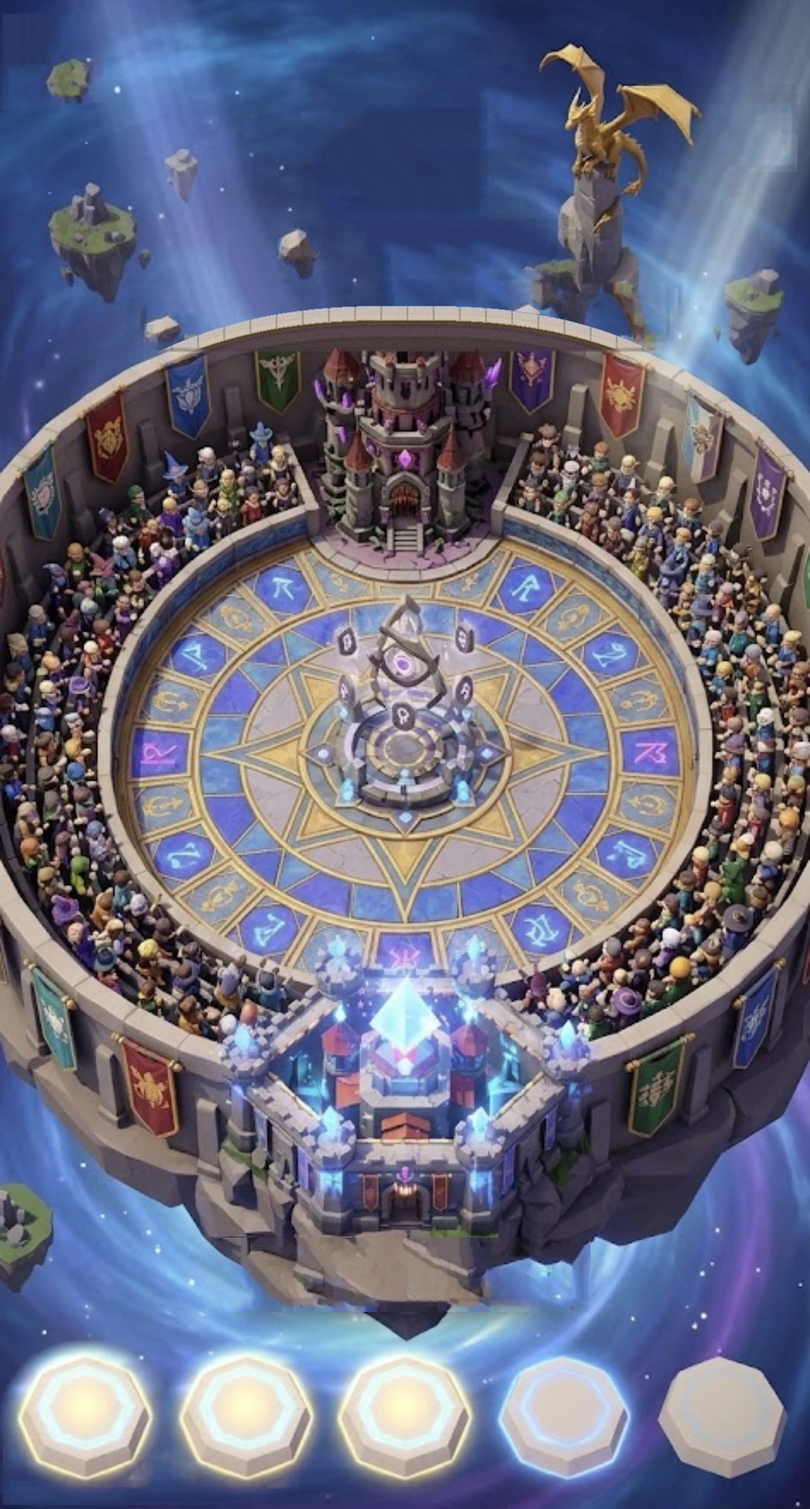
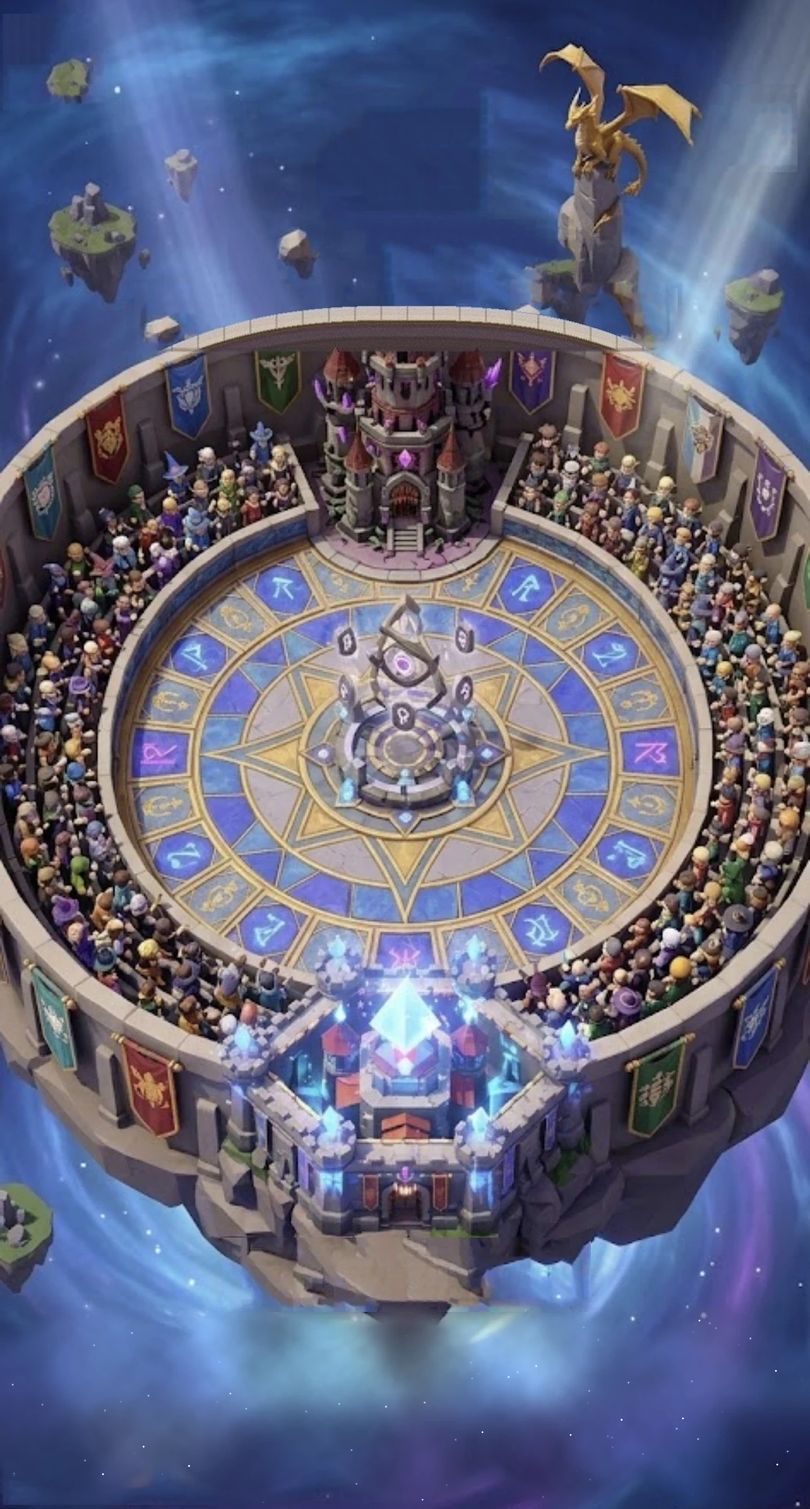
Lot 1B : Cercle d'Invocation en arc runique (médaillons ronds, héros en lévitation, bandeau de runes, éclairs de fusion) ; socles peints effacés d'Aurore et Sylve (originaux gardés)
Claude-Session: https://claude.ai/code/session_01XbgkGZjGWcb88mGKSWkqRT

Changed region(s): [[0.0, 0.8694, 0.9796, 0.9936]]

diff --git a/src/client/three/battleview.js b/src/client/three/battleview.js
@@ -52,6 +52,62 @@ const SYLVE_FS = `uniform sampler2D map; uniform float t, cheer, top; uniform ve
     gl_FragColor = c;
   }`;
 const BENCH_Z = RY + 3.1, BENCH_X = [-4.6, -2.3, 0, 2.3, 4.6];
+// ---------- Arc runique du Cercle d'Invocation (Lot 1B, 19/11 : remplace la rangée de socles en ligne) ----------
+// Les 5 socles suivent un arc (le centre plus près de toi, les bords remontent vers l'île) ;
+// chaque socle = médaillon rond de pierre astrale, liseré doré, anneau de runes qui tourne ; le héros lévite au-dessus.
+const ARC_LIFT = 0.8; // remontée des socles du bord (unités du monde)
+let RUNE_TEX = null;
+function runeTexture() {
+  if (RUNE_TEX) return RUNE_TEX;
+  const S = 256, c = document.createElement('canvas'); c.width = c.height = S; const g = c.getContext('2d');
+  g.translate(S / 2, S / 2); g.strokeStyle = '#fff'; g.lineCap = 'round';
+  g.lineWidth = 3; g.beginPath(); g.arc(0, 0, 118, 0, 7); g.stroke();
+  g.lineWidth = 2; g.beginPath(); g.arc(0, 0, 84, 0, 7); g.stroke();
+  // glyphes entre les deux cercles
+  let sd = 11; const rnd = () => (sd = (sd * 9301 + 49297) % 233280) / 233280;
+  for (let i = 0; i < 16; i++) {
+    g.save(); g.rotate(i / 16 * Math.PI * 2); g.translate(0, -101); g.lineWidth = 2.6; g.beginPath();
+    const k = Math.floor(rnd() * 4);
+    if (k === 0) { g.moveTo(-6, -8); g.lineTo(0, 8); g.lineTo(6, -8); }
+    else if (k === 1) { g.moveTo(0, -9); g.lineTo(0, 9); g.moveTo(-6, -3); g.lineTo(6, 3); }
+    else if (k === 2) { g.moveTo(-6, 8); g.lineTo(-6, -8); g.lineTo(6, 0); g.lineTo(-6, 0); }
+    else { g.arc(0, 0, 6, 0.4, 5.9); g.moveTo(0, -9); g.lineTo(0, 9); }
+    g.stroke(); g.restore();
+  }
+  // étoile à 8 branches au centre
+  g.lineWidth = 1.6; g.globalAlpha = 0.55; g.beginPath();
+  for (let i = 0; i < 8; i++) { const a = i / 8 * Math.PI * 2; g.moveTo(Math.cos(a) * 20, Math.sin(a) * 20); g.lineTo(Math.cos(a + Math.PI / 8) * 60, Math.sin(a + Math.PI / 8) * 60); g.lineTo(Math.cos(a + Math.PI / 4) * 20, Math.sin(a + Math.PI / 4) * 20); }
+  g.stroke();
+  RUNE_TEX = new THREE.CanvasTexture(c); RUNE_TEX.colorSpace = THREE.SRGBColorSpace; RUNE_TEX.anisotropy = 4;
+  return RUNE_TEX;
+}
+// Médaillon d'un socle : pierre astrale + liseré doré + runes (additives) + halo
+function medallion() {
+  const g = new THREE.Group();
+  const stone = new THREE.Mesh(new THREE.CylinderGeometry(0.92, 0.82, 0.22, 40), new THREE.MeshStandardMaterial({ color: '#1c2766', emissive: '#0d1a5a', emissiveIntensity: 0.6, roughness: 0.55, metalness: 0.25 }));
+  stone.position.y = 0.11; stone.receiveShadow = true; g.add(stone);
+  const rim = new THREE.Mesh(new THREE.TorusGeometry(0.92, 0.06, 8, 48), new THREE.MeshStandardMaterial({ color: '#e9c877', emissive: '#7a5410', emissiveIntensity: 0.7, roughness: 0.3, metalness: 0.8 }));
+  rim.rotation.x = Math.PI / 2; rim.position.y = 0.22; g.add(rim);
+  const rune = new THREE.Mesh(new THREE.PlaneGeometry(1.66, 1.66), new THREE.MeshBasicMaterial({ map: runeTexture(), color: '#8fd8ff', transparent: true, opacity: 0.85, blending: THREE.AdditiveBlending, depthWrite: false }));
+  rune.rotation.x = -Math.PI / 2; rune.position.y = 0.235; g.add(rune);
+  const halo = new THREE.Mesh(new THREE.PlaneGeometry(3, 3), new THREE.MeshBasicMaterial({ map: glowTexture(), color: '#5fb8ff', transparent: true, opacity: 0.35, blending: THREE.AdditiveBlending, depthWrite: false }));
+  halo.rotation.x = -Math.PI / 2; halo.position.y = 0.02; g.add(halo);
+  return { g, rune, halo, rim };
+}
+// Bandeau de runes qui relie les socles (courbe passant par les 5 médaillons), motif qui défile
+const ARC_VS = 'varying vec2 vUv; void main(){ vUv = uv; gl_Position = projectionMatrix * modelViewMatrix * vec4(position, 1.0); }';
+const ARC_FS = `varying vec2 vUv; uniform float t; uniform vec3 col;
+  float h(float x){ return fract(sin(x * 91.7) * 4375.5); }
+  void main(){
+    float edge = smoothstep(0.0, 0.18, vUv.y) * smoothstep(1.0, 0.82, vUv.y);
+    float line = smoothstep(0.12, 0.0, abs(vUv.y - 0.5)) * 0.55;
+    float u = vUv.x * 46.0 - t * 1.6, cell = floor(u), f = fract(u);
+    float glyph = step(0.35, h(cell)) * smoothstep(0.5, 0.2, abs(f - 0.5)) * smoothstep(0.42, 0.18, abs(vUv.y - 0.5));
+    float pulse = 0.6 + 0.4 * sin(vUv.x * 18.0 - t * 3.0);
+    float ends = smoothstep(0.0, 0.06, vUv.x) * smoothstep(1.0, 0.94, vUv.x);
+    gl_FragColor = vec4(col * (line + glyph * 0.8) * pulse * edge * ends, 1.0);
+  }`;
+
 
 // Forteresse des Sanctuaires (remplace le simple temple)
 function fortress(roof, crys, stone, hk = 1) {
@@ -86,6 +142,7 @@ export class BattleView {
     this.key = worldKey; this.me = me;
     this.q = quality();
     this.art = ARENA_ART[worldKey] || null; this.zk = this.art ? this.art.k : 1; this.bz = this.art ? this.art.benchZ : BENCH_Z; this.bx = this.art ? this.art.benchX : BENCH_X;
+    { const xm = Math.max(...this.bx.map(Math.abs)); this.bzs = this.bx.map(x => this.bz - ARC_LIFT * this.zk * (x / xm) ** 2); }
     this.r = createRenderer(canvas);
     this.scene = new THREE.Scene();
     this.cam = new THREE.PerspectiveCamera(42, 1, 0.5, 400);
@@ -140,14 +197,28 @@ export class BattleView {
     this.scene.add(ledge); if (this.art) ledge.visible = false;
     this.slotHits = [];
     for (let i = 0; i < BENCH; i++) {
-      const g = new THREE.Group(); g.position.set(this.bx[i], 0, this.bz);
-      const ped = new THREE.Mesh(new THREE.CylinderGeometry(0.85, 0.95, 0.35, 8), new THREE.MeshStandardMaterial({ color: '#d8d0c0', flatShading: true })); ped.position.y = 0.05; ped.receiveShadow = true; ped.castShadow = true; g.add(ped); if (this.art) { ped.visible = false; }
-      const rune = new THREE.Mesh(new THREE.RingGeometry(0.55, 0.72, 6), new THREE.MeshBasicMaterial({ color: '#8fd8ff', transparent: true, opacity: 0.5, side: THREE.DoubleSide, depthWrite: false }));
-      rune.rotation.x = -Math.PI / 2; rune.position.y = this.art ? 0.03 : 0.24; g.add(rune);
+      const g = new THREE.Group(); g.position.set(this.bx[i], 0, this.bzs[i]);
+      const md = medallion(); md.g.scale.setScalar(1.12); g.add(md.g); const rune = md.rune;
       const hit = new THREE.Mesh(new THREE.CylinderGeometry(1.1, 1.1, 2.6, 8), new THREE.MeshBasicMaterial({ visible: false })); hit.position.y = 1.2; hit.userData.slot = i; g.add(hit);
       this.slotHits.push(hit);
       this.scene.add(g);
-      this.bench.push({ g, rune, key: '', actor: null, loading: null });
+      this.bench.push({ g, rune, halo: md.halo, key: '', actor: null, loading: null, sel: false });
+    }
+    // arc de runes qui relie les médaillons (dans les arènes peintes et en 3D)
+    {
+      const pts = this.bx.map((x, i) => new THREE.Vector3(x, 0.05, this.bzs[i]));
+      const d0 = pts[0].clone().sub(pts[1]).multiplyScalar(0.55), d1 = pts[4].clone().sub(pts[3]).multiplyScalar(0.55);
+      const curve = new THREE.CatmullRomCurve3([pts[0].clone().add(d0), ...pts, pts[4].clone().add(d1)]);
+      const N = 120, W = 0.34, pos = [], uv = [], idx = [];
+      for (let k = 0; k <= N; k++) {
+        const u = k / N, p = curve.getPointAt(u), tg = curve.getTangentAt(u), nx = -tg.z, nz = tg.x, l = Math.hypot(nx, nz) || 1;
+        pos.push(p.x - nx / l * W, p.y, p.z - nz / l * W, p.x + nx / l * W, p.y, p.z + nz / l * W); uv.push(u, 0, u, 1);
+        if (k < N) { const a = k * 2; idx.push(a, a + 1, a + 2, a + 1, a + 3, a + 2); }
+      }
+      const geo = new THREE.BufferGeometry(); geo.setAttribute('position', new THREE.Float32BufferAttribute(pos, 3)); geo.setAttribute('uv', new THREE.Float32BufferAttribute(uv, 2)); geo.setIndex(idx);
+      this.arcU = { t: { value: 0 }, col: { value: new THREE.Color('#6fc8ff') } };
+      const arc = new THREE.Mesh(geo, new THREE.ShaderMaterial({ uniforms: this.arcU, vertexShader: ARC_VS, fragmentShader: ARC_FS, transparent: true, blending: THREE.AdditiveBlending, depthWrite: false, side: THREE.DoubleSide }));
+      arc.renderOrder = -1; this.scene.add(arc);
     }
     // Zone de déploiement (moitié de l'île du joueur)
     const sh = new THREE.Shape(); sh.absellipse(0, 0, RX - 0.3, RY - 0.3, Math.PI, 2 * Math.PI, false, 0);
@@ -309,7 +380,7 @@ export class BattleView {
     return p ? this.toSim(p.x, p.z) : null;
   }
   screenOf(x, y, h = 0) { const w = this.toWorld(x, y); const v = new THREE.Vector3(w.x, h, w.z).project(this.cam); return { x: (v.x + 1) / 2 * this.ow, y: (1 - v.y) / 2 * this.oh }; }
-  benchScreen(i) { const v = new THREE.Vector3(this.bx[i], 0, this.bz).project(this.cam); return { x: (v.x + 1) / 2 * this.ow, y: (1 - v.y) / 2 * this.oh }; }
+  benchScreen(i, h = 0) { const v = new THREE.Vector3(this.bx[i], h, this.bzs[i]).project(this.cam); return { x: (v.x + 1) / 2 * this.ow, y: (1 - v.y) / 2 * this.oh }; }
 
   async setGhost(g) {
     if (!g) { if (this.ghost) { this.scene.remove(this.ghost.a.holder); this.ghost.a.dispose(); this.ghost = null; } this.zone.visible = false; this.aim.visible = false; return; }
@@ -334,7 +405,7 @@ export class BattleView {
     const c = HERO[g.id]; this.aim.scale.setScalar(c.range > 2 ? c.range : 1.1);
     this.aim.material.color.set(g.ok ? '#ffffff' : '#ff4f5e');
   }
-  highlightSlot(i) { this.bench.forEach((b, k) => { b.rune.material.color.set(k === i ? '#ffd166' : '#8fd8ff'); b.rune.material.opacity = k === i ? 0.95 : 0.5; }); }
+  highlightSlot(i) { this.bench.forEach((b, k) => { b.sel = k === i; b.rune.material.color.set(b.sel ? '#ffd166' : '#8fd8ff'); b.halo.material.color.set(b.sel ? '#ffc04a' : '#5fb8ff'); b.halo.material.opacity = b.sel ? 0.7 : 0.35; }); }
 
   // ---------- Effets à partir des événements ----------
   ingest(ev, s) {
@@ -371,8 +442,8 @@ export class BattleView {
           break; }
         case 'bossDown': this.fx.explosion(w.x, w.z, 3, 'fire'); this.fx.pillar(w.x, w.z, 1.4, '#ffd166', 1.4, 10); this.shake = 0.8; break;
         case 'wave': this.fx.flash(0, 3, -8, 10, '#ff5a3a', 0.6); break;
-        case 'summon': if (e.p === this.me) { const b = this.bx[e.slot]; const col = RARITIES[HERO[e.id].rar].color; this.fx.pillar(b, this.bz, 0.8, col, 0.8, 5); this.fx.emit(b, 0.4, this.bz, { n: 24, color: [col, '#ffffff'], size: 0.45, life: 0.8, speed: 2, up: 1 }); } break;
-        case 'benchFuse': if (e.p === this.me) { const b = this.bx[e.slot]; this.fx.pillar(b, this.bz, 1, '#ffd166', 0.9, 6); this.fx.emit(b, 0.6, this.bz, { n: 36, color: ['#fff3c0', '#ffd166'], size: 0.45, life: 0.9, speed: 2.5, up: 1 }); } break;
+        case 'summon': if (e.p === this.me) { const b = this.bx[e.slot]; const col = RARITIES[HERO[e.id].rar].color; const bz = this.bzs[e.slot]; this.fx.pillar(b, bz, 0.8, col, 0.8, 5); this.fx.emit(b, 0.4, bz, { n: 24, color: [col, '#ffffff'], size: 0.45, life: 0.8, speed: 2, up: 1 }); } break;
+        case 'benchFuse': if (e.p === this.me) { const b = this.bx[e.slot]; const bz = this.bzs[e.slot]; this.fx.pillar(b, bz, 1, '#ffd166', 0.9, 6); this.fx.emit(b, 0.6, bz, { n: 36, color: ['#fff3c0', '#ffd166'], size: 0.45, life: 0.9, speed: 2.5, up: 1 }); } break;
       }
     }
   }
@@ -463,12 +534,15 @@ export class BattleView {
           const k = key;
           makeHero(h.id, { star: h.star, lite: this.q.lite, skin: (this.skins || {})[h.id] }).then(a => {
             if (b.key !== k) { a.dispose(); return; }
-            a.holder.position.y = 0.23; a.holder.scale.multiplyScalar(1.05); a.play('idle'); b.actor = a; b.g.add(a.holder);
+            a.holder.position.y = 0.6; a.holder.scale.multiplyScalar(1.15); a.holder.rotation.order = 'YXZ'; a.play('idle'); b.actor = a; b.g.add(a.holder);
           });
         }
       }
-      if (b.actor) { b.actor.update(dt); b.actor.holder.rotation.y = Math.sin(this.time * 0.6 + i) * 0.35; }
-      b.rune.rotation.z += dt * 0.6;
+      // le héros lévite au-dessus de son médaillon
+      if (b.actor) { b.actor.update(dt); b.actor.holder.rotation.y = Math.sin(this.time * 0.6 + i) * 0.35; b.actor.holder.rotation.x = -0.55; b.actor.holder.position.y = 0.62 + Math.sin(this.time * 2.1 + i * 1.3) * 0.1; }
+      b.rune.rotation.z += dt * (h ? 0.8 : 0.35);
+      if (!b.sel) { const c = h ? RARITIES[HERO[h.id].rar].color : '#8fd8ff'; if (b.col !== c) { b.col = c; b.rune.material.color.set(c); } b.halo.material.opacity = (h ? 0.42 : 0.22) + Math.sin(this.time * 2 + i) * 0.06; }
+      else b.col = null;
     }
     // Sanctuaires, Cœur
     for (const p of [0, 1]) {
@@ -480,6 +554,7 @@ export class BattleView {
     this.fx.syncProjectiles(s.proj, (x, y) => this.toWorld(x, y));
     this.fx.update(dt);
     this.world.update(dt, this.time);
+    if (this.arcU) this.arcU.t.value = this.time;
     if (this.bgU) { this.artCheer = Math.max(0, (this.artCheer || 0) - dt * 0.6); this.bgU.t.value = this.time; this.bgU.cheer.value = Math.min(1, this.artCheer); }
     if (this.artUps) for (const u of this.artUps) u(dt, this.time);
     if (this.ghost) { this.ghost.a.update(dt); }
@@ -489,6 +564,32 @@ export class BattleView {
     this.post.render();
     if (this.perf) this.perf.tick(dt);
     this.drawOverlay(s, alpha, dt);
+  }
+
+  // Éclair d'énergie entre deux socles identiques prêts à fusionner (même héros, même rang, rang < 3)
+  drawFusionBolts(c, B, dt) {
+    const pairs = [];
+    for (let i = 0; i < BENCH; i++) for (let j = i + 1; j < BENCH; j++) { const a = B[i], b = B[j]; if (a && b && a.id === b.id && a.star === b.star && a.star < 3) pairs.push([i, j]); }
+    if (!pairs.length) return;
+    this.boltT = (this.boltT || 0) - dt;
+    if (this.boltT <= 0 || !this.bolts) { this.boltT = 0.07; this.bolts = {}; }
+    c.save(); c.globalCompositeOperation = 'lighter'; c.lineJoin = 'round'; c.lineCap = 'round';
+    for (const [i, j] of pairs) {
+      const k = i + '-' + j, A = this.benchScreen(i, 0.9), Bp = this.benchScreen(j, 0.9);
+      if (!this.bolts[k]) {
+        // ligne brisée qui monte en arc entre les deux médaillons (refaite ~14 fois par seconde)
+        const n = 12 + (j - i) * 4, lift = 26 + (j - i) * 10, pts = [];
+        for (let q = 0; q <= n; q++) { const u = q / n, x = A.x + (Bp.x - A.x) * u, y = A.y + (Bp.y - A.y) * u - Math.sin(u * Math.PI) * lift; const jit = q && q < n ? (Math.random() - 0.5) * 14 : 0; pts.push([x + jit * 0.4, y + jit]); }
+        this.bolts[k] = pts;
+      }
+      const pts = this.bolts[k], path = () => { c.beginPath(); pts.forEach(([x, y], q) => q ? c.lineTo(x, y) : c.moveTo(x, y)); };
+      const fl = 0.75 + Math.random() * 0.25;
+      path(); c.strokeStyle = `rgba(90,200,255,${0.22 * fl})`; c.lineWidth = 9; c.stroke();
+      path(); c.strokeStyle = `rgba(140,230,255,${0.6 * fl})`; c.lineWidth = 3.5; c.stroke();
+      path(); c.strokeStyle = `rgba(255,255,255,${0.95 * fl})`; c.lineWidth = 1.3; c.stroke();
+      for (const P of [A, Bp]) { const g = c.createRadialGradient(P.x, P.y, 0, P.x, P.y, 16); g.addColorStop(0, `rgba(220,245,255,${0.8 * fl})`); g.addColorStop(1, 'rgba(90,200,255,0)'); c.fillStyle = g; c.beginPath(); c.arc(P.x, P.y, 16, 0, 7); c.fill(); }
+    }
+    c.restore();
   }
 
   drawOverlay(s, alpha, dt) {
@@ -509,19 +610,18 @@ export class BattleView {
       if (e.shield > 0) { c.fillStyle = '#d8ecff'; c.fillRect(p.x - w / 2, p.y - 3, Math.min(w, w * e.shield / e.maxHp * 2), 2); }
       if (e.star > 1) { c.font = '900 12px Nunito, sans-serif'; c.textAlign = 'center'; c.fillStyle = '#ffd166'; c.strokeStyle = 'rgba(20,10,30,.9)'; c.lineWidth = 3; const st = '★'.repeat(e.star); c.strokeText(st, p.x, p.y - 4); c.fillText(st, p.x, p.y - 4); }
     }
-    // étoiles du cercle d'invocation
+    // Cercle d'Invocation : rang (★) en petites gemmes sous chaque médaillon, éclairs entre deux héros prêts à fusionner
     const B = s.players[this.me].bench;
-    c.textAlign = 'center';
     for (let i = 0; i < BENCH; i++) {
       const h = B[i]; if (!h) continue;
       const p = this.benchScreen(i);
-      const col = RARITIES[HERO[h.id].rar].color;
-      c.font = '900 13px Nunito, sans-serif'; c.lineWidth = 3; c.strokeStyle = 'rgba(15,8,30,.95)';
-      for (let k = 0; k < 3; k++) { const sx = p.x + (k - 1) * 13; c.strokeText('★', sx, p.y + 22); c.fillStyle = k < h.star ? '#ffd166' : 'rgba(255,255,255,.25)'; c.fillText('★', sx, p.y + 22); }
-      c.fillStyle = col; c.font = '800 10px Nunito, sans-serif'; c.strokeText(HERO[h.id].name, p.x, p.y + 34); c.fillText(HERO[h.id].name, p.x, p.y + 34);
-      const twin = B.some((o, k) => k !== i && o && o.id === h.id && o.star === h.star && h.star < 3);
-      if (twin) { c.font = '900 11px Nunito, sans-serif'; c.fillStyle = '#7dff9a'; const yy = p.y - 62 - Math.abs(Math.sin(this.time * 4)) * 5; c.strokeText('FUSION ✦', p.x, yy); c.fillText('FUSION ✦', p.x, yy); }
+      for (let k = 0; k < 3; k++) {
+        const sx = p.x + (k - 1) * 11, sy = p.y + 19 + Math.abs(k - 1) * -2, on = k < h.star;
+        c.beginPath(); c.moveTo(sx, sy - 5); c.lineTo(sx + 4, sy); c.lineTo(sx, sy + 5); c.lineTo(sx - 4, sy); c.closePath();
+        c.fillStyle = on ? '#ffd166' : 'rgba(180,200,255,.22)'; c.fill(); c.lineWidth = 1.2; c.strokeStyle = 'rgba(15,8,40,.9)'; c.stroke();
+      }
     }
+    this.drawFusionBolts(c, B, dt);
     for (const n of this.nums) {
       n.t += dt; const k = n.t / 1.1;
       const p = this.screenOf(n.x, n.y, n.h + k * 1.2);

diff --git a/index.html b/index.html
@@ -1,5 +1,5 @@
 <!doctype html>
-<html lang="fr" data-version="2026-11-19.7">
+<html lang="fr" data-version="2026-11-19.8">
 <head>
 <meta charset="utf-8">
 <meta name="viewport" content="width=device-width, initial-scale=1, maximum-scale=1, user-scalable=no, viewport-fit=cover">

diff --git a/CLAUDE.md b/CLAUDE.md
@@ -43,13 +43,13 @@ Cahier des charges du 13/11/2026 ; plan en 7 phases : `docs/ROADMAP.md` ; reste 
 - Style d'interface (14/11, d'après une maquette de l'utilisateur) : bloc « Style jeu mobile pro » en fin de `styles.css` (bleu royal `--b1..b4` + or, cadre doré, bannière parchemin `.home-world`, bouton `.btn-battle` orange bombé, tuiles bleues bombées, barre du bas bleue avec onglet actif doré). Icône `swords`. Accueil : paysage 3D (montagnes, forêt, château, rayons) dans `showcase.backdrop`, ciel `HS` par monde.
 - Style d'interface « fantastique cosmique » (15/11, maquette de l'utilisateur ; remplace visuellement le style « pro » du 14/11, toujours dans le fichier) : bloc en fin de `styles.css` (variables `--n0..n2`, `--cy`, `--or`, `--lune`, `--fil`). Barre du haut = avatar + capsule `.res` (Gloire · cristal central `.tb-gem` → Boutique · or · gemmes) + nom/niveau dessous `.me-txt`. Accueil : scène sans cadre, calque CSS `.cosmos` (aurores `.au`, étoiles `.st`, rochers `.rk` qui lévitent), `Showcase` option `cosmic` (ciel de nuit, île bleue, sans paysage ni arbres). Bouton `.btn-battle` = plaque bleu/or + cristal `.seal`. Barre du bas : icônes plates `n_star/n_gem/n_hero/n_crown/n_shield` (icons.js).
 - Illustrations de l'interface (15/11) : `src/client/ui/art.js` = dessins vectoriels SVG (nets partout, aucun fichier image ; l'essai avec des morceaux agrandis de la maquette était flou, abandonné) : `eclatSVG(couleur, lueur)` (Éclats de Faille), `relicSVG()` (Relique de conquête), `battleSVG()` (plaque, le texte COMBATTRE reste du vrai texte), `medalSVG()`, `isleSVG('a'|'b'|'c')`, `sparkSVG()`. Décor de l'accueil : `cosmosBack()`/`cosmosFront()` dans `app.js` (calques CSS derrière/devant le héros : nébuleuses, étoiles, aurores `.au` dont la couleur coule, étoiles filantes, îles, halo, rayons, lucioles `.mote`) ; le canvas du héros est transparent (`Showcase` `cosmic` : rendu direct sans post-traitement). Styles : blocs « Décor cosmique vivant » et « Fidélité à la maquette » en fin de `styles.css`. Sous le héros : île de roche `rockIsle()` (showcase.js, à la place de l'autel). Barre du haut = capsule à pointes `.res` + bandeau `.tb-sub` (profil, niveau, réglages) ; barre du bas = icônes seules ; monde + progression = une ligne discrète en haut de la scène ; le nom du héros n'est plus affiché sur l'accueil (toucher le héros ouvre toujours sa fiche).
-- Refonte d'identité (19/11, plan en 4 lots : 1 = menus sans codes Clash Royale, 2 = ordres tactiques + Décharge du Mythe, 3 = failles dynamiques + effets de monde, 4 = Commandant + caméra ; l'utilisateur valide chaque lot et veut une capture AVANT publication). Lot 1A fait : **plus de coffres** (images, `bake-chests.html`, styles supprimés). Les victoires d'Arène donnent des **Éclats de Faille** (`ECLATS` brut/clair/dore/arcane/mythe, `ECLAT_CYCLE`, réserve `ECLAT_MAX` 20, `rollEclat` à graine `nextSeed` du profil) purifiés tout de suite à l'**Autel des Failles** (bâtiment `autel` du Royaume, offert niveau 1 ; `purifyPerDay` = 3 + niveau par jour, contenu +6 %/niveau ; image `b-autel-*.webp` construite par le code dans `bake-kingdom.html` `autelModel`) ; **jauge de conquête** (`conquestPoints` : Arène victoire 12 (+4 Cœur), égalité 5, défaite 3 ; Campagne/Événement/Tournoi victoire 6 ; à 100 → Relique `conquestReward`, `claimConquest`). Accueil : `conquestRow()` (progress.js, médaillon `relicSVG` + `eclatSVG` dans art.js), fenêtre `openAutel()`. Anciennes sauvegardes : `migrateEclats` (store.js, coffres → Éclats, missions/connexion). Les « trophées » s'appellent **Gloire** à l'écran (le champ `trophies` reste dans le code et les sauvegardes). Tests : `tests/economy.test.js`.
+- Refonte d'identité (19/11, plan en 4 lots : 1 = menus sans codes Clash Royale, 2 = ordres tactiques + Décharge du Mythe, 3 = failles dynamiques + effets de monde, 4 = Commandant + caméra ; l'utilisateur valide chaque lot et veut une capture AVANT publication). Lot 1A fait : **plus de coffres** (images, `bake-chests.html`, styles supprimés). Les victoires d'Arène donnent des **Éclats de Faille** (`ECLATS` brut/clair/dore/arcane/mythe, `ECLAT_CYCLE`, réserve `ECLAT_MAX` 20, `rollEclat` à graine `nextSeed` du profil) purifiés tout de suite à l'**Autel des Failles** (bâtiment `autel` du Royaume, offert niveau 1 ; `purifyPerDay` = 3 + niveau par jour, contenu +6 %/niveau ; image `b-autel-*.webp` construite par le code dans `bake-kingdom.html` `autelModel`) ; **jauge de conquête** (`conquestPoints` : Arène victoire 12 (+4 Cœur), égalité 5, défaite 3 ; Campagne/Événement/Tournoi victoire 6 ; à 100 → Relique `conquestReward`, `claimConquest`). Accueil : `conquestRow()` (progress.js, médaillon `relicSVG` + `eclatSVG` dans art.js), fenêtre `openAutel()`. Anciennes sauvegardes : `migrateEclats` (store.js, coffres → Éclats, missions/connexion). Les « trophées » s'appellent **Gloire** à l'écran (le champ `trophies` reste dans le code et les sauvegardes). Tests : `tests/economy.test.js`. Lot 1B : **arc runique** du Cercle (battleview.js : `this.bzs` = z de chaque socle, `ARC_LIFT` = remontée des bords ; `medallion()` = pierre astrale + liseré doré + runes `runeTexture()` additives + halo, couleur = rareté du héros, doré si sélectionné ; héros qui lévite incliné vers la caméra ; bandeau `ARC_FS` qui relie les médaillons ; rang = gemmes sous le médaillon ; `drawFusionBolts` = éclair 2D entre deux héros identiques prêts à fusionner, plus de noms ni de « FUSION ✦ »). Socles peints effacés des images `aurore.webp`/`sylve.webp` (nébuleuse/roche, originaux dans `assets/arenas/originaux/`, hors sw.js).
 - Bouton COMBATTRE vivant (16/11) : `battleSparks()` dans app.js (étincelles `.bb-spark` aux positions `BB_SPARKS` en % de la plaque, éclat `.bb-flare`, poussières `.bb-mote`) + `.bb-aura`, `.bb-rays`, reflets `.bb-shine`, texte qui brille ; styles « Bouton COMBATTRE vivant » en fin de `styles.css`.
 - Accueil peint (16/11, maquette de l'utilisateur) : `assets/ui/home-scene.webp` = scène du milieu de la maquette (sorcier, île, cascades, aurore), agrandie ×4 (Real-ESRGAN anime 6B, converti en ONNX hors dépôt) sans retouche, `img.home-art` fondue en haut/bas, à la place du héros 3D (plus de `Showcase` sur l'accueil ; `.home-hero` invisible ouvre toujours la fiche). `.home-stage` remplit l'écran pour que la rangée conquête + Autel touche la barre du bas (tuiles en faisant défiler). Or du bouton plus chaud (`btG` dans art.js) + lueur dorée ; rangée conquête vivante `conqLife()` (progress.js : étoiles `.cq-star`, poussières `.cq-mote`).
 - Héros réalistes (16/11, d'après une image d'Aldric de l'utilisateur) : `lookOf(m)` dans `three/assets.js` = look par défaut de tous les héros (plus de contour noir). KayKit humains : `applyLook` (métal auto = cases grises de la palette `autoMetal`, reflets du ciel peint `envTex`, détails « grain / rayures » dans le shader de `addRim` si `mat.userData.detail`, look.js — seulement dans la fiche (`makeHero(id, { detail: true })` dans showcase.js). Contrôles Guardian n°69-70 bloqués (combat figé 10-30 s) : la texture d'origine était rangée dans `material.userData` → `Material.clone()` la sérialisait en JSON (`toDataURL` de toute l'image) à chaque héros invoqué. Désormais `BASE_MAP` (WeakMap) ; ne JAMAIS mettre de texture dans `userData`. Couleur des cheveux lue une fois par image (`HAIR_PX`) ; portraits en pause pendant un combat (`portrait()` dans showcase.js)) + `applyFace` (triangles des yeux / cheveux repérés par la case de palette sous leurs UV : yeux = case (2,0) → maillage à part avec texture dessinée `faceTex('eye')`, iris = couleur de la lueur ; cheveux = case (1,0) → `smoothHair` (soudure, 2 subdivisions, lissage de Taubin, bords fixes) + `hairMat` = clone du matériau d'origine (même couleur, teinte, lueur) + mèches en relief et reflet ; sourcils = triangles « cheveux » bas et au-dessus des yeux, gardés unis). Squelettes : métal + sans contour ; bêtes/créatures : `softLook`. Aldric : `model.look` sur mesure dans content.js (recoloration par cases, bouclier en bois). Fiche (`Showcase` mode hero) : `heroPedestal` (herbe instanciée, anneau blanc lumineux, lucioles). Essais abandonnés : cheveux à « couches de mèches » (shell texturing) jugés pas réalistes par l'utilisateur.
 - Monde 1 (Aurore) = colisée cosmique (d'après une image de l'utilisateur) : ciel `nebulaDome()` (world.js, pas de gouffre ni d'îlots par défaut), sol de pierre + grande mosaïque dorée aux runes bleues (`groundTexture`, `cosmic`), pas d'herbe ni d'arbres, `buildArena(..., { a0: .70, a1: 2.30, tiers: 3, gate: false })`, bannières à blasons `bannerTex`, 6 stèles de runes, îles satellites + statue de dragon doré (`surroundings.aurore`). La consigne de combat se place sous la barre ennemie.
 - Sanctuaires : `fortress()` dans `battleview.js` (remparts crénelés, 4 tours à toits bleus/rouges, cristaux, porte vers le Cœur) + temple au centre ; la tienne plus basse (`hk` 0,66) pour ne pas cacher le combat.
-- Arènes peintes (`ARENA_ART` dans `battleview.js`, 1re : `assets/arenas/aurore.webp` = image de l’utilisateur nettoyée de son interface) : l’image est dessinée sous la 3D (`buildArt`, option `under` de `createComposer`), caméra `paintedCamera` calée sur l’image (paramètres trouvés par ajustement : fov, th, D, zt, off ; profondeur ×`k` via `zk` dans `toWorld/toSim`), socles du Cercle = ceux de l’image (`benchZ`, `benchX`). Décor 3D, forteresses, socles et base du Cœur cachés. Pour une nouvelle image : relever les points (centre, bords, tours, socles), refaire l’ajustement.
+- Arènes peintes (`ARENA_ART` dans `battleview.js`, 1re : `assets/arenas/aurore.webp` = image de l’utilisateur nettoyée de son interface) : l’image est dessinée sous la 3D (`buildArt`, option `under` de `createComposer`), caméra `paintedCamera` calée sur l’image (paramètres trouvés par ajustement : fov, th, D, zt, off ; profondeur ×`k` via `zk` dans `toWorld/toSim`), socles du Cercle placés sur l'arc à partir de `benchZ`/`benchX` (les socles peints ont été effacés le 19/11). Décor 3D, forteresses, socles et base du Cœur cachés. Pour une nouvelle image : relever les points (centre, bords, tours, socles), refaire l’ajustement.
 - Monde 2 (Sylve) peint (19/11) : `ARENA_ART.sylve` = `assets/arenas/sylve.webp` (capture peinte de l'utilisateur recadrée sur la zone de jeu, interface effacée : socles 1-2 recopiés du socle 3, haut = peinture des côtés en miroir + bande de ciel/brume, centre du Cœur (« I ») = anneau de runes tourné + disque de pierre, bord bas de l'île = anneau tourné, restes par inpainting ; voûte sombre ajoutée en haut (`top` 320 px) pour les écrans longs ; agrandie 1,5× Real-ESRGAN ; coordonnées en pixels de l'image d'origine W 1176, décalées de `top`). Caméra ajustée (Nelder-Mead hors dépôt) sur Cœur (587,975), Sanctuaires (587,640)/(587,1430), bords x ±7,6 → 105/1070 ; socles = points de l'image (y 1759) reprojetés au sol. Shader `SYLVE_FS` (fx 'sylve' : champignons/runes cyan qui pulsent, feuillage qui ondule, poussière dorée autour du Cœur, étoiles, nébuleuse qui respire, brume qui glisse, lanternes qui vacillent), lucioles vert-or, pas de dragon.
 - Arène peinte vivante : shader du fond (`bgU` : public qui saute par cellules, + fort sur `artCheer`, runes/cristaux bleus qui pulsent, étoiles qui scintillent ; zones = ellipses/boîtes en pixels de l’image) + dragon 3D et poussière magique (`artUps`). Contours : épaisseur en uniform `olT` (un seul programme). `forceContextLoss` différé de 1,5 s (il bloquait les changements d’onglet).
 - Arène peinte (suite) : dans le shader, la statue de dragon bat des ailes (rotation des pixels autour des épaules L/R, pixels de l’image), respire + reflet doré ; le vide sous l’île tourbillonne (deux échantillons tournés en fondu autour de V=(588,1900), masque `islE`) + vagues d’énergie.
